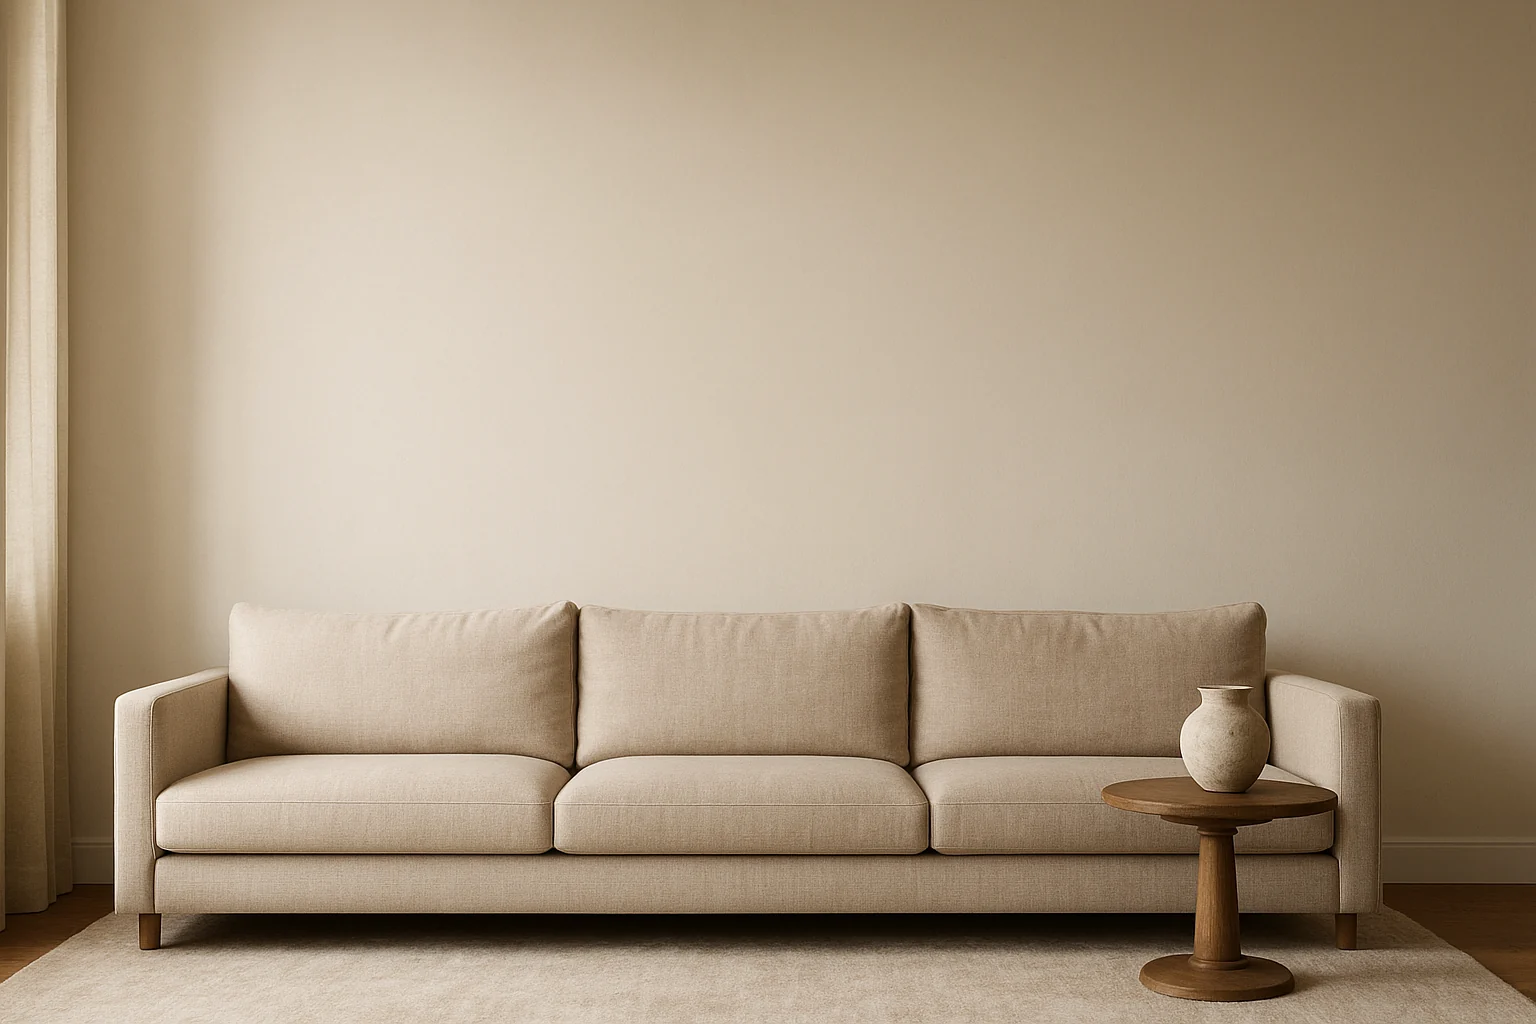
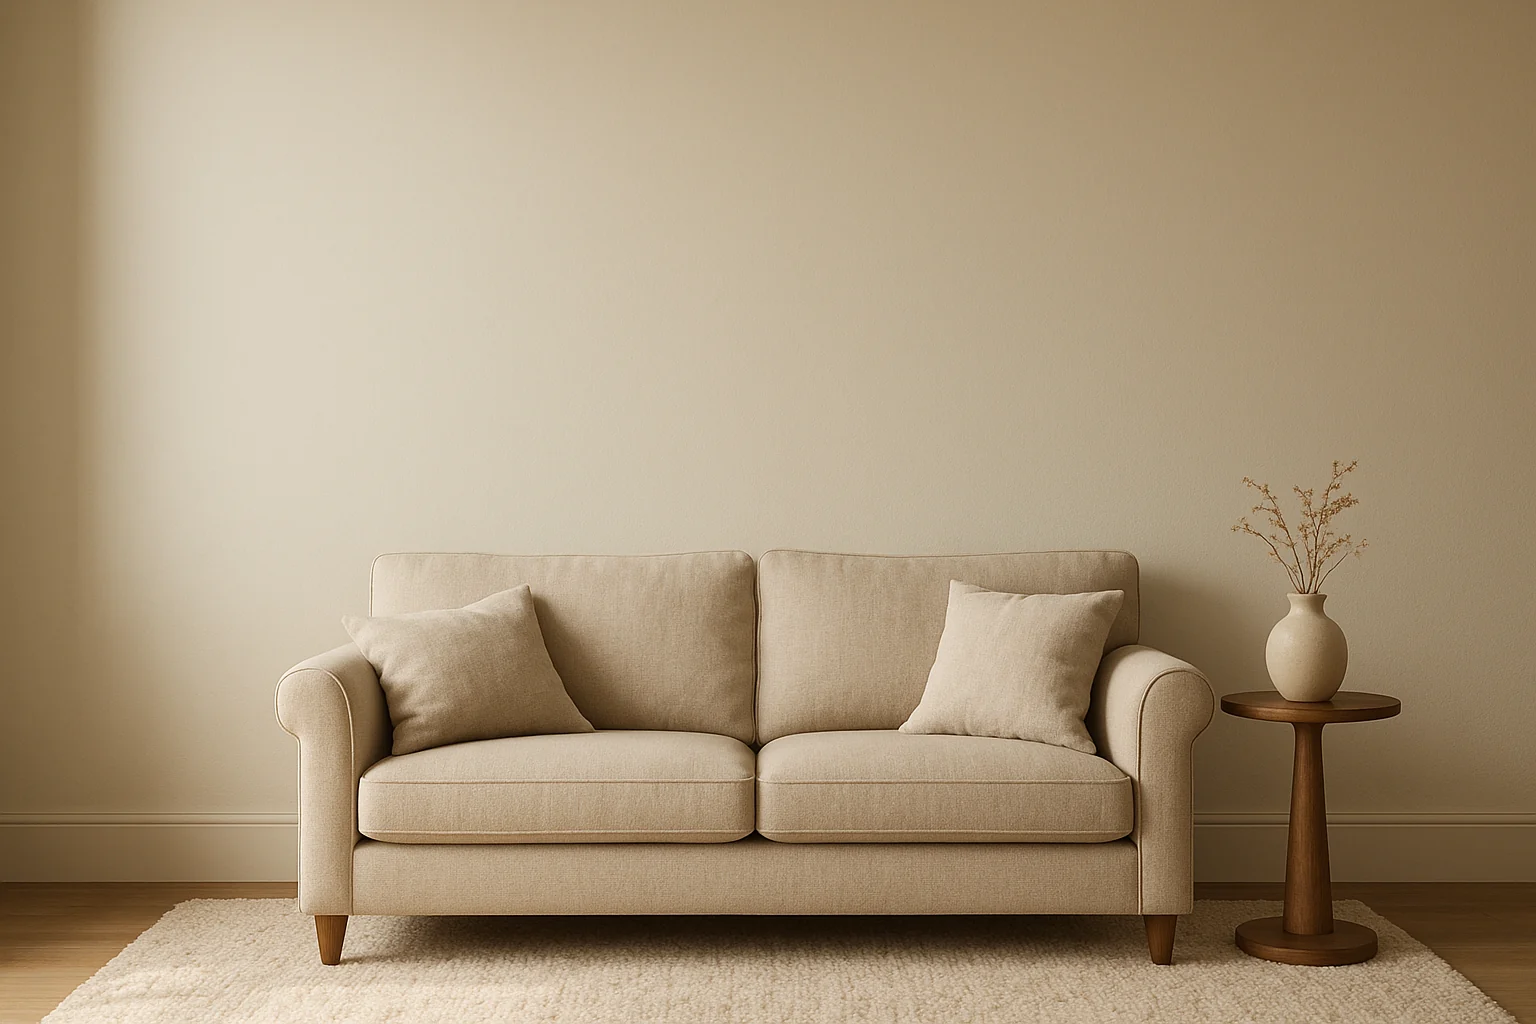
widget: real ornate frames in the room view, and a loveseat for scale
Two fixes to the wall preview:

1. Loveseat instead of a sofa. The reference now spans 60% of the photo rather
   than 83%, so the same canvas reads considerably grander beside it — which is
   what a customer is actually judging when they pick a size.

2. Real frames instead of a CSS bevel. Each mockup is cropped to the outer edge
   of its moulding (*_cut.webp) and placed on the wall at true physical size,
   with the customer's art laid into the opening — the same trick the hero uses.
   The portrait baked into the mockup stays hidden underneath.

Moulding widths are declared, not derived: antique 2" per side, baroque 3".
The mockups' own proportions only differ by ~0.3", which understates the real
difference between the frames.

diff --git a/backend/static/widget.js b/backend/static/widget.js
@@ -28,16 +28,29 @@
     { code: "M", label: "32 × 24\"", in: 32 },
     { code: "L", label: "40 × 30\"", in: 40 }
   ];
-  // The room photo's 84" sofa spans ~83.2% of the frame, so one inch ≈ 0.99% of width.
-  var WALL_PPI = 83.2 / 84;
-  // `bare` = the gallery-wrapped canvas (no frame mockup image — drawn in CSS from the art itself)
+  // The room photo's 60" loveseat spans ~60.5% of the frame, so one inch ≈ 1.008% of width.
+  // A loveseat rather than a sofa on purpose: the same canvas reads far grander beside it.
+  var WALL_PPI = 60.5 / 60;
+  var ROOM_HW = 1024 / 1536;      // room photo aspect, for turning a width % into a height %
+  // `bare`  = gallery-wrapped canvas (no mockup image — drawn in CSS from the art itself)
+  // l/t/w/h = art window inside the full wall-mockup, used for the hero
+  // cut     = art window inside the *_cut crop (mockup trimmed to the moulding), used on the wall
+  // mould   = moulding width per side in inches; baroque is 1" wider than the antiques
+  // ar      = aspect (w/h) of the cropped frame image
   var FRAMES = [
     { code: "U", key: null,             label: "Unframed",            bare: true },
-    { code: "G", key: "antique_gold",   label: "Antique Gold",       l: 7.5, t: 8, w: 85, h: 84 },
-    { code: "R", key: "antique_silver", label: "Antique Silver",     l: 8,   t: 8, w: 84, h: 84 },
-    { code: "B", key: "baroque_gold",   label: "Baroque Gold (Wide)", l: 9.5, t: 9, w: 81, h: 82 }
+    { code: "G", key: "antique_gold",   label: "Antique Gold",        l: 7.5, t: 8, w: 85, h: 84,
+      cut: { l: 5.8, t: 6.3, w: 86.9, h: 87.1 }, ar: 587 / 463, mould: 2 },
+    { code: "R", key: "antique_silver", label: "Antique Silver",      l: 8,   t: 8, w: 84, h: 84,
+      cut: { l: 6.2, t: 8.1, w: 86.6, h: 85.1 }, ar: 582 / 475, mould: 2 },
+    { code: "B", key: "baroque_gold",   label: "Baroque Gold (Wide)", l: 9.5, t: 9, w: 81, h: 82,
+      cut: { l: 5.8, t: 9.2, w: 85.1, h: 83.9 }, ar: 571 / 469, mould: 3 }
   ];
-  FRAMES.forEach(function (f) { if (f.key) f.img = API + "/app/frames/" + f.key + ".webp"; });
+  FRAMES.forEach(function (f) {
+    if (!f.key) return;
+    f.img = API + "/app/frames/" + f.key + ".webp";
+    f.cutImg = API + "/app/frames/" + f.key + "_cut.webp";
+  });
 
   var CDN = "https://cdn.shopify.com/s/files/1/0055/0957/8803/files/";
   var EXAMPLES = [
@@ -128,12 +141,10 @@
     "#pcai .pc-wall{position:relative;display:inline-block;line-height:0;max-width:100%}" +
     "#pcai .pc-wallbg{display:block;max-width:100%;max-height:620px;border-radius:10px}" +
     "#pcai .pc-wallart{position:absolute;left:50%;transform:translateX(-50%);box-sizing:border-box;box-shadow:0 12px 24px rgba(0,0,0,.30),0 2px 6px rgba(0,0,0,.22)}" +
-    "#pcai .pc-wallart>img{width:100%;height:100%;object-fit:cover;display:block}" +
-    // frames approximated as a bevelled border at this scale — the real mockups are their own wall scenes
-    "#pcai .pc-wf{padding:1.7%}" +
-    "#pcai .pc-wf-G{background:linear-gradient(145deg,#dcbc7c,#a87e3c 45%,#e8d19d)}" +
-    "#pcai .pc-wf-R{background:linear-gradient(145deg,#dedede,#98989a 45%,#f1f1f1)}" +
-    "#pcai .pc-wf-B{padding:2.9%;background:linear-gradient(145deg,#e2bf79,#976c2c 45%,#f2d9a0)}" +
+    "#pcai .pc-wallart.bare>img{width:100%;height:100%;object-fit:cover;display:block}" +
+    // real ornate frames: the mockup cropped to its moulding, customer art laid into the opening
+    "#pcai .pc-wfimg{width:100%;height:100%;display:block}" +
+    "#pcai .pc-wfart{position:absolute;object-fit:cover}" +
     "#pcai .pc-wallcap{position:absolute;left:0;right:0;bottom:10px;text-align:center;line-height:1.4;pointer-events:none}" +
     "#pcai .pc-wallcap span{display:inline-block;background:rgba(255,253,247,.88);color:#4a4036;font-size:11px;padding:4px 12px;border-radius:100px}" +
     "#pcai .pc-thumbs{display:flex;gap:9px;margin-top:12px;flex-wrap:wrap}" +
@@ -397,16 +408,26 @@
     var r = curRes();
     return artIn(frameByCode(sel.frame), r.preview + "?t=" + r.bust, cls, wrapCls);
   }
-  // Room view: the art sized against a real 84" sofa, so 24x18 vs 40x30 is finally tangible.
+  // Room view: the piece sized against the room's 60" loveseat, so 24x18 vs 40x30 — and the
+  // difference a wider moulding makes — is something you can see rather than read.
   function wallHTML() {
-    var r = curRes(), f = frameByCode(sel.frame);
+    var r = curRes(), f = frameByCode(sel.frame), art = r.preview + "?t=" + r.bust;
     var sz = SIZES.filter(function (s) { return s.code === sel.size; })[0] || SIZES[0];
-    var w = sz.in * WALL_PPI;          // canvas width as % of the room's width
-    var h = w * 1.125;                 // 4:3 art inside a 3:2 room photo
+    var w, h, inner;
+    if (f.bare) {
+      w = sz.in * WALL_PPI;                          // canvas only
+      h = w * 1.125;                                 // 4:3 art inside a 3:2 room photo
+      inner = "<img src='" + art + "'>";
+    } else {
+      w = (sz.in + 2 * f.mould) * WALL_PPI;          // canvas + moulding on both sides
+      h = w / (f.ar * ROOM_HW);
+      inner = "<img class='pc-wfimg' src='" + f.cutImg + "'>" +
+        "<img class='pc-wfart' src='" + art + "' style='left:" + f.cut.l + "%;top:" + f.cut.t +
+        "%;width:" + f.cut.w + "%;height:" + f.cut.h + "%'>";
+    }
     return "<div class='pc-wall'><img class='pc-wallbg' src='" + API + "/app/wall/room.webp' alt='Room'>" +
-      "<div class='pc-wallart" + (f.bare ? " bare" : " pc-wf pc-wf-" + f.code) + "' style='width:" +
-        w.toFixed(1) + "%;height:" + h.toFixed(1) + "%;top:" + (55 - h).toFixed(1) + "%'>" +
-        "<img src='" + r.preview + "?t=" + r.bust + "'></div>" +
+      "<div class='pc-wallart" + (f.bare ? " bare" : "") + "' style='width:" + w.toFixed(1) +
+        "%;height:" + h.toFixed(1) + "%;top:" + (55 - h).toFixed(1) + "%'>" + inner + "</div>" +
       "<div class='pc-wallcap'><span>Shown to scale &middot; " + sz.label +
         (f.bare ? " gallery-wrapped canvas" : " in " + f.label) + "</span></div></div>";
   }
